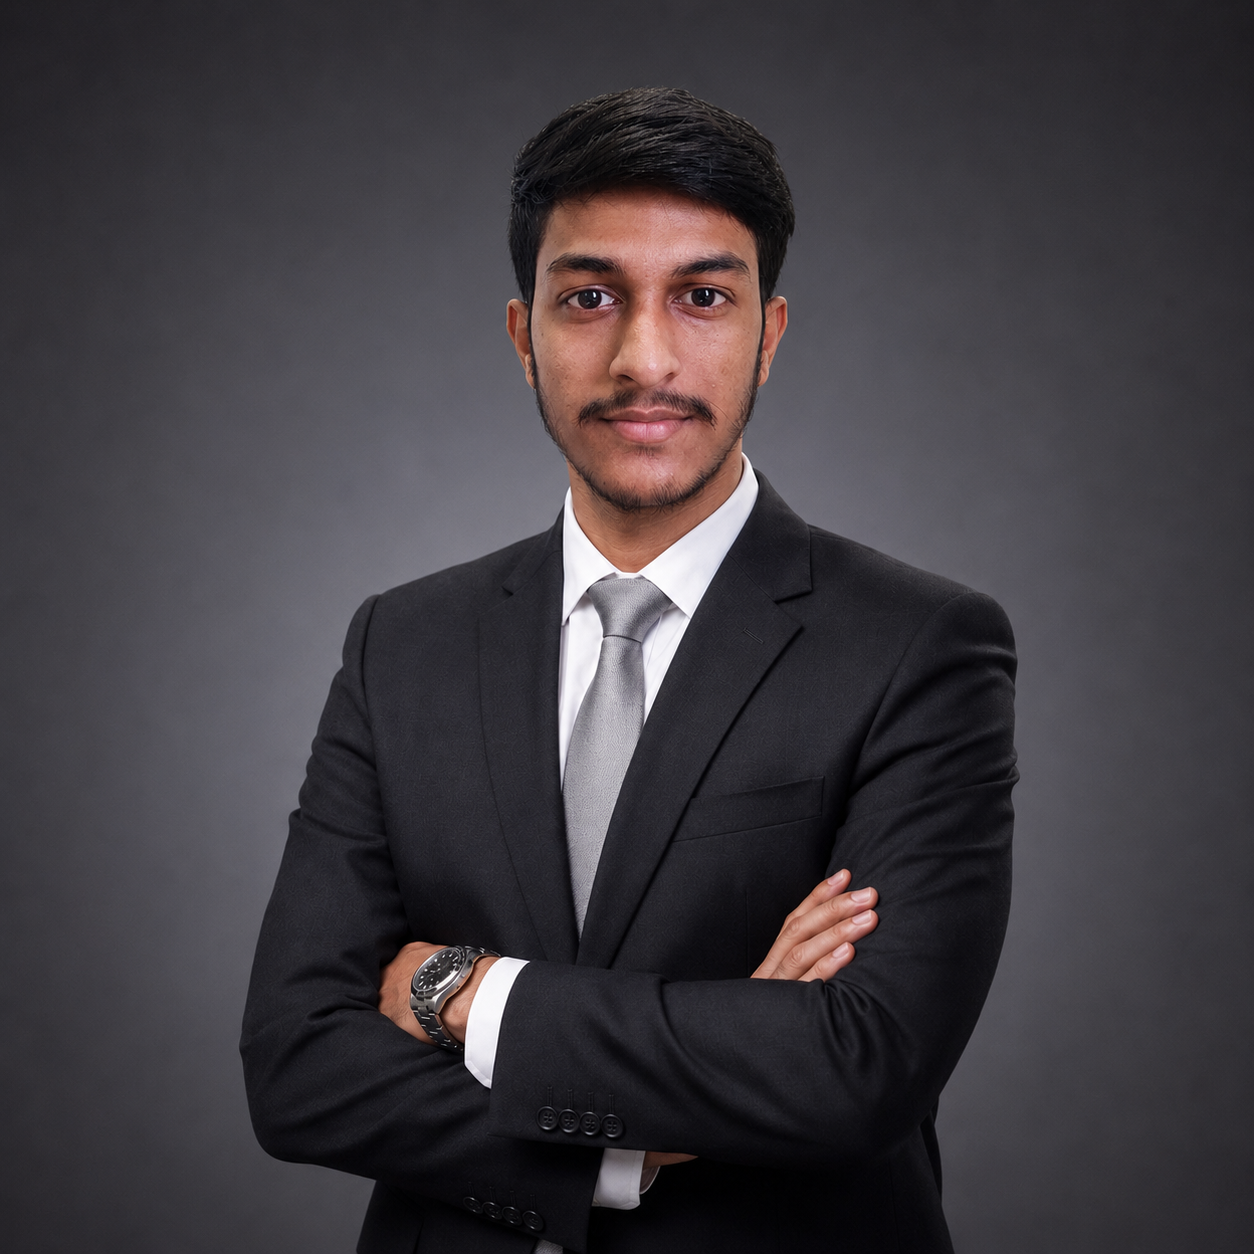
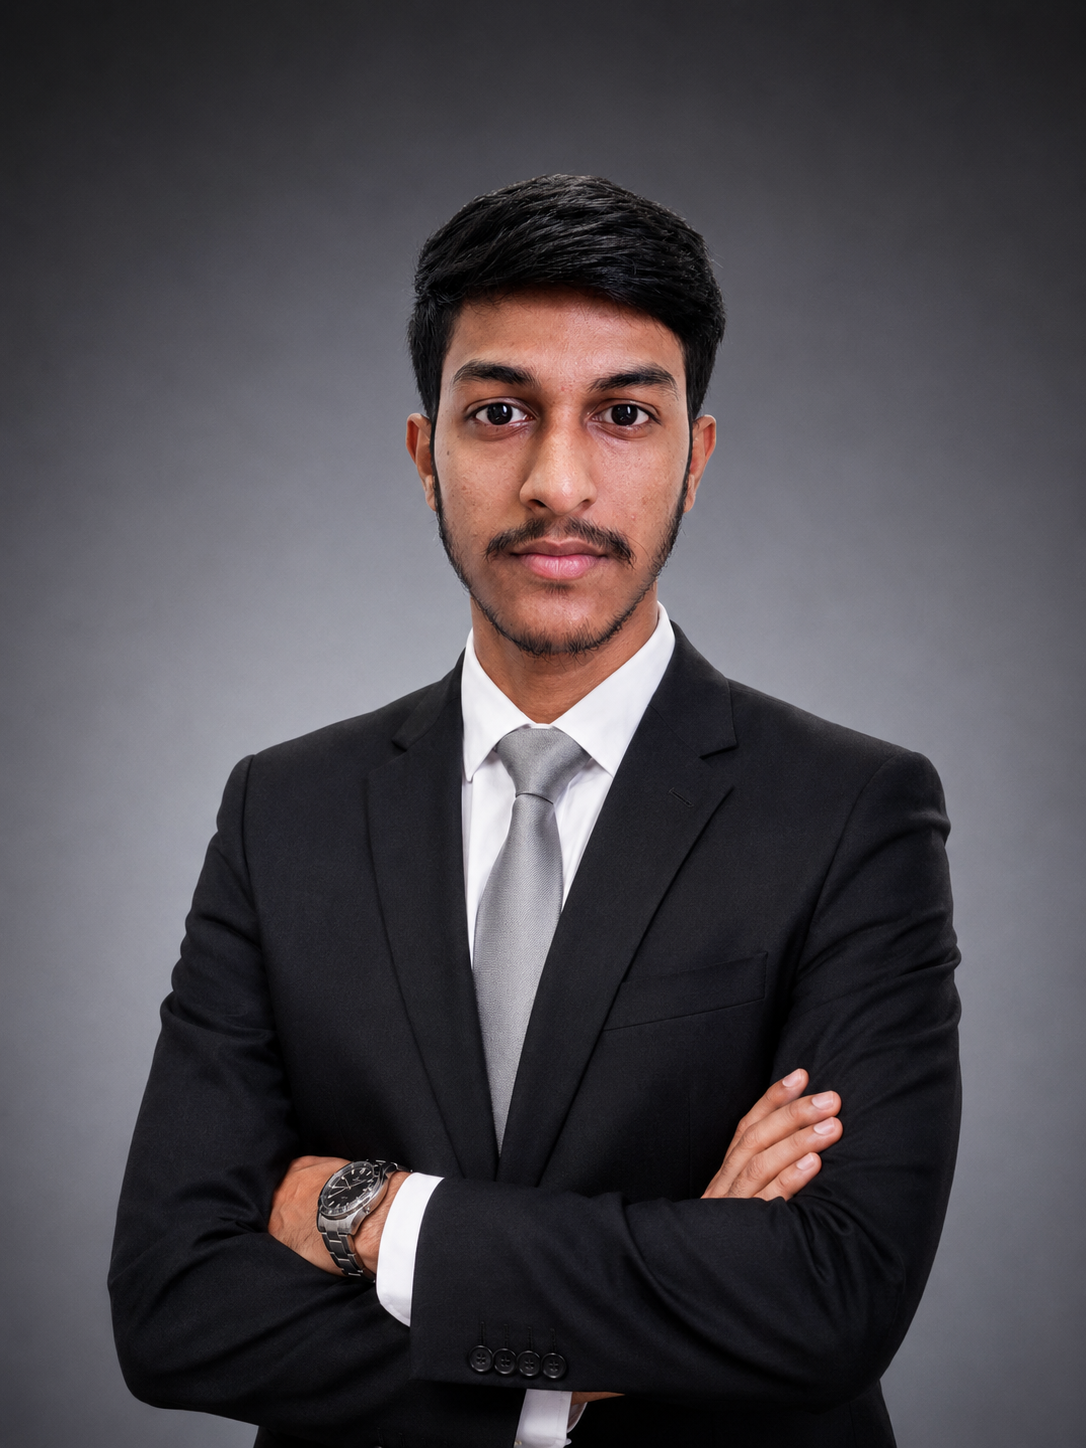
fix: update resume link and replace portfolio image

diff --git a/components/Main.js b/components/Main.js
@@ -174,7 +174,7 @@ export default function PremiumHeroSection() {
                 </Link>
 
                 <a
-                  href="https://drive.google.com/file/d/1mC-5fcDP92wCczjLPx_GPjqWXFnZSBQ-/view?usp=sharing"
+                  href="https://drive.google.com/file/d/12Em4TXeYke0DGQrB1el1PzagghZfepxZ/view?usp=sharing"
                   target="_blank"
                   rel="noopener noreferrer"
                 >
